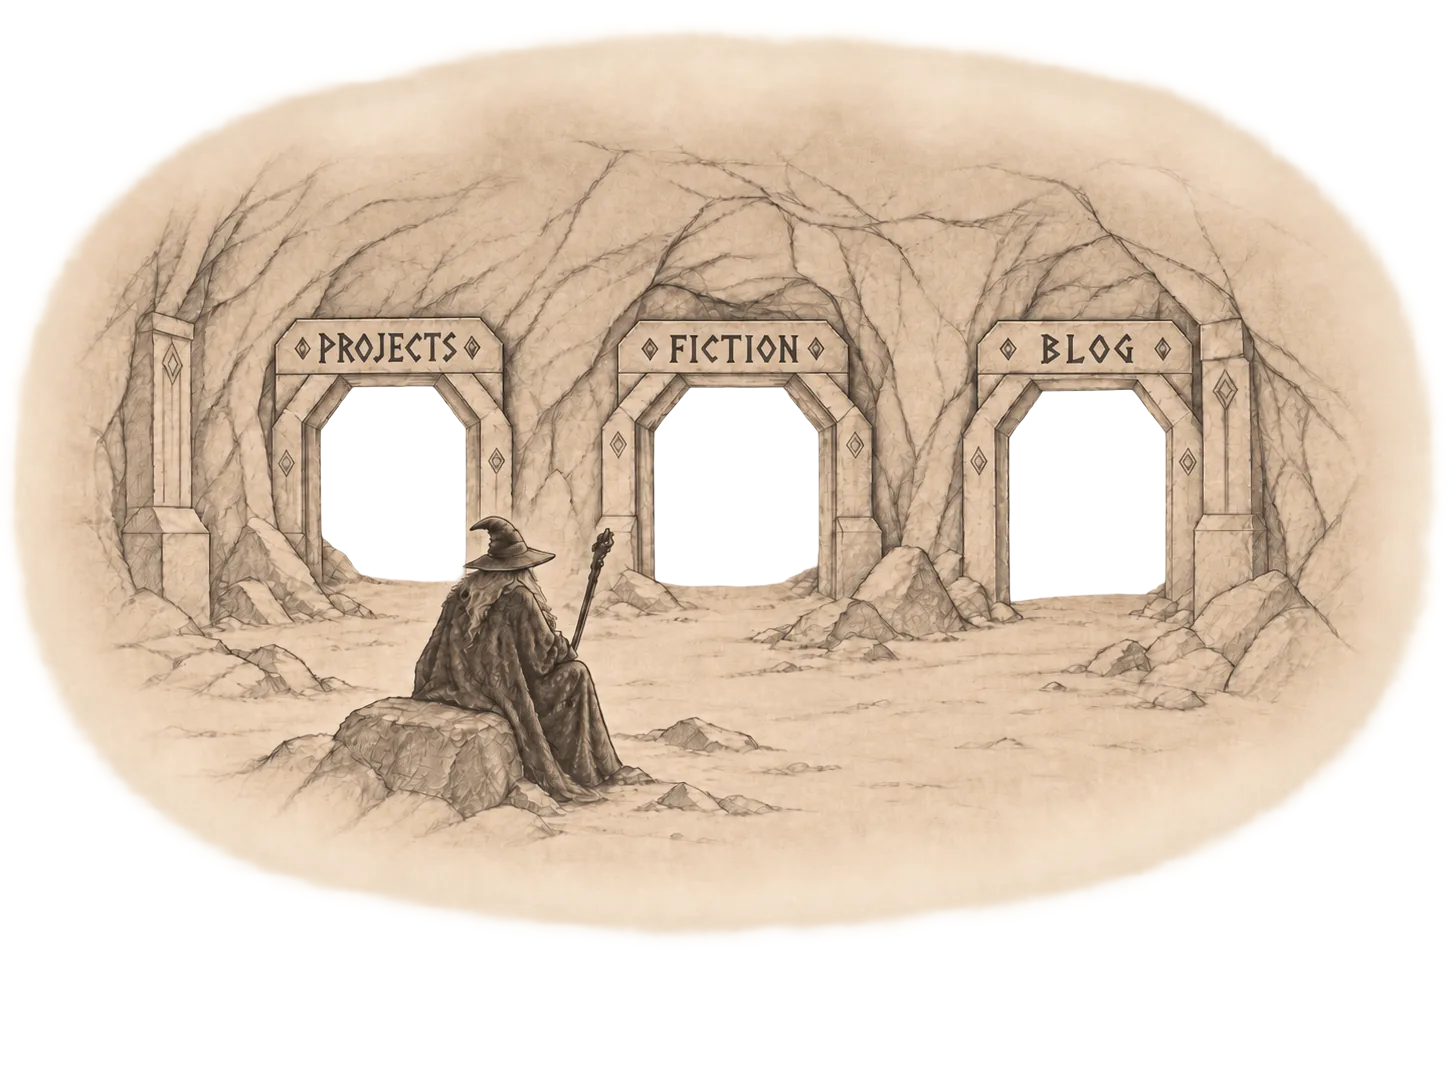
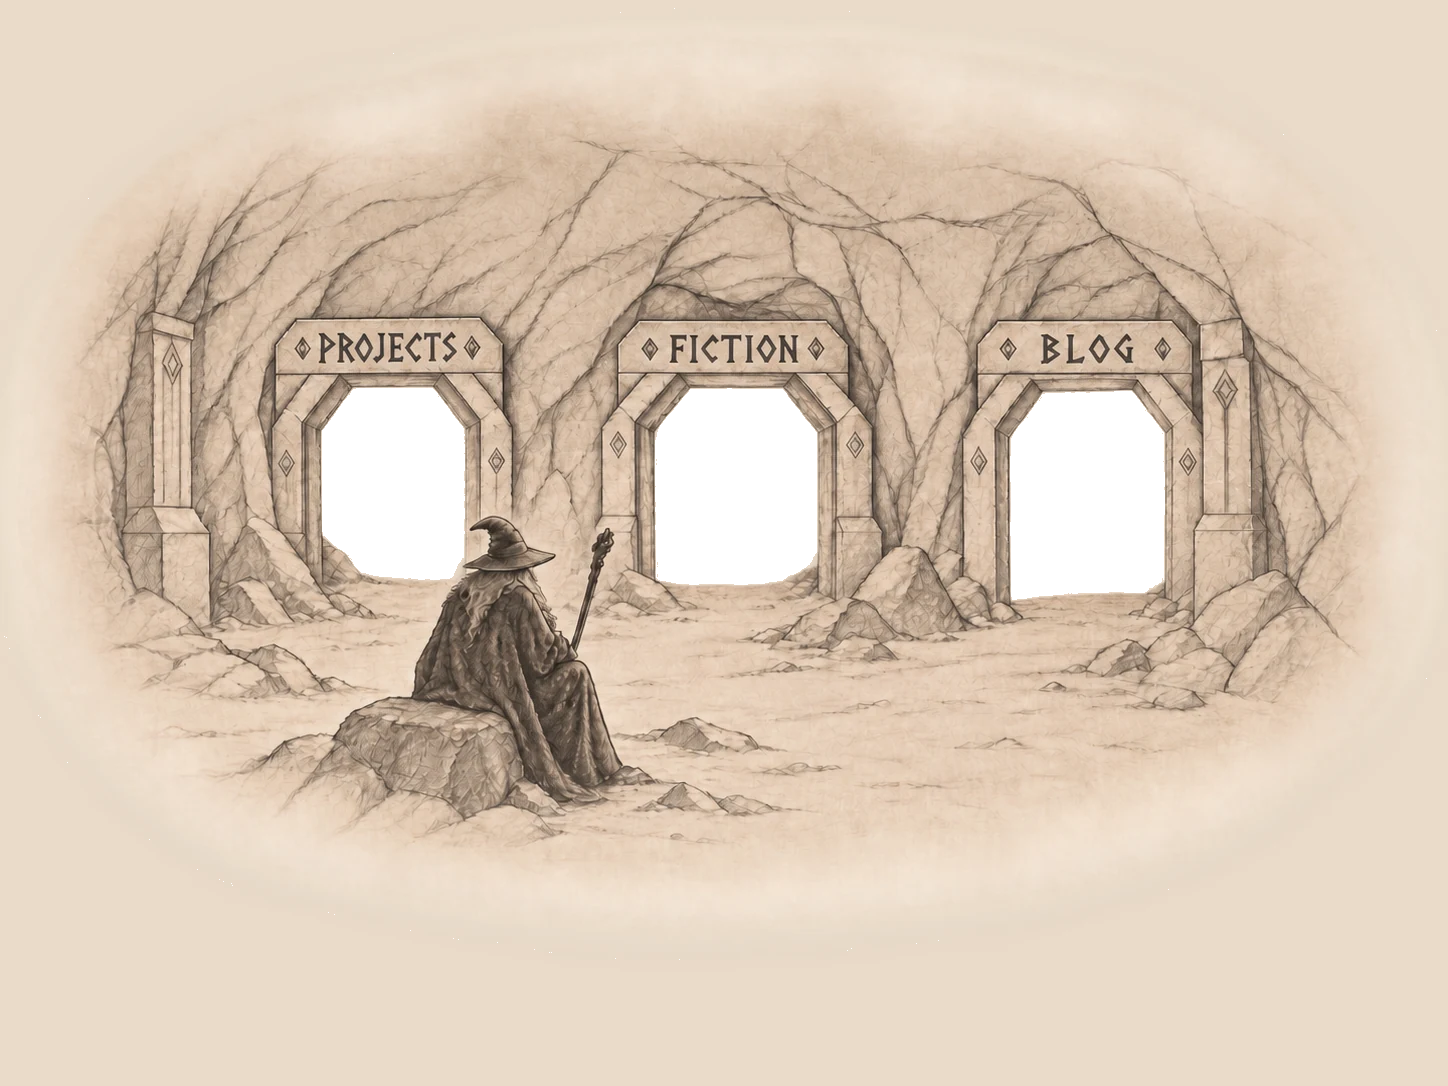
Blend the hall into the page, and make the portals bigger and brighter
- flatten the artwork onto #e9dac9 (its own paper colour, sampled from the
  fade zone) with only the doorways punched out; body matches exactly, so
  the vignette dissolves with no visible edge and no black surround
- scenes zoom to 1.46 (drifting to 1.62) at brightness 1.22, veil down to
  0.02, and the scene art is pre-brightened with a soft-knee rolloff so it
  doesn't bloom
- fire ring widened to 170% so more of the picture shows through
- 404 and theme-colours moved onto the same paper
- portrait phones scale the artwork past the viewport; the cropped edges
  are invisible now that the background matches

diff --git a/public/assets/css/site.css b/public/assets/css/site.css
@@ -43,9 +43,8 @@ h3{font-size:1.15rem}
    THE HALL (landing page)
    ============================================================ */
 body.hall-page{
-  background:
-    radial-gradient(120% 90% at 50% 42%, #171310 0%, #0c0a09 55%, #060505 100%);
-  color:#e8ddca; min-height:100svh;
+  background:#e9dac9;              /* sampled from the artwork's own paper */
+  color:#4a3d30; min-height:100svh;
   display:flex; flex-direction:column; align-items:center; justify-content:center;
   padding:clamp(12px,3vw,32px) 0;
 }
@@ -57,7 +56,6 @@ body.hall-page{
 .hall-art, .hall picture{
   position:absolute; inset:0; width:100%; height:100%;
   object-fit:contain; pointer-events:none; z-index:3;
-  filter:drop-shadow(0 24px 60px rgba(0,0,0,.65));
 }
 .hall-defs{position:absolute;width:0;height:0;overflow:hidden}
 
@@ -95,7 +93,7 @@ body.hall-page{
 /* the ring of fire, licking the inside of the doorframe */
 .portal .swirl{
   transform:translateY(-50%) scaleY(1.14);
-  inset:auto; left:-32%; top:50%; width:164%; height:auto; aspect-ratio:1;
+  inset:auto; left:-35%; top:50%; width:170%; height:auto; aspect-ratio:1;
   background:image-set(url("../scenes/fire-a.webp") type("image/webp"), url("../scenes/fire-a.png") type("image/png")) center/100% 100% no-repeat;
   mix-blend-mode:screen; opacity:0;
   filter:saturate(1.15) contrast(1.05);
@@ -103,7 +101,7 @@ body.hall-page{
   transition:opacity .75s ease;
 }
 .portal .swirl.b{
-  left:-42%; width:184%;
+  left:-48%; width:196%;
   background-image:image-set(url("../scenes/fire-b.webp") type("image/webp"), url("../scenes/fire-b.png") type("image/png"));
   filter:blur(6px) saturate(1.2);
   animation:fire-spin-r 15s linear infinite;
@@ -118,17 +116,17 @@ body.hall-page{
 
 /* ---- awake ---- */
 .portal:is(:hover,:focus-visible,.is-awake) .scene{
-  transform:scale(1.17);
-  filter:brightness(1.02) saturate(1) contrast(1) blur(0);
+  transform:scale(1.46);
+  filter:brightness(1.22) saturate(1.06) contrast(1.02) blur(0);
   animation:portal-drift 13s ease-in-out 1.35s infinite alternate;
 }
-.portal:is(:hover,:focus-visible,.is-awake) .veil{opacity:.10}
+.portal:is(:hover,:focus-visible,.is-awake) .veil{opacity:.02}
 .portal:is(:hover,:focus-visible,.is-awake) .ember{opacity:0}
 .portal:is(:hover,:focus-visible,.is-awake) .swirl{opacity:.92;animation:fire-spin 24s linear infinite, flare 6s ease-in-out infinite}
 .portal:is(:hover,:focus-visible,.is-awake) .swirl.b{opacity:.55;animation:fire-spin-r 15s linear infinite, flare-b 4.4s ease-in-out infinite}
 .portal:is(:hover,:focus-visible,.is-awake) .rim{
   transform:scale(1);
-  box-shadow:inset 0 0 14px 4px rgba(0,0,0,.55), inset 0 0 52px 14px rgba(120,44,0,.4);
+  box-shadow:inset 0 0 10px 2px rgba(0,0,0,.35), inset 0 0 44px 10px rgba(120,44,0,.28);
 }
 .portal:focus-visible{outline:2px solid rgba(255,200,120,.9);outline-offset:3px}
 
@@ -137,8 +135,8 @@ body.hall-page{
 @keyframes flare{0%,100%{opacity:.82}50%{opacity:1}}
 @keyframes flare-b{0%,100%{opacity:.4}50%{opacity:.72}}
 @keyframes portal-drift{
-  from{transform:scale(1.17) translate3d(0,0,0)}
-  to{transform:scale(1.30) translate3d(0,-2%,0)}
+  from{transform:scale(1.46) translate3d(0,0,0)}
+  to{transform:scale(1.62) translate3d(0,-2.4%,0)}
 }
 @keyframes ember-breathe{0%,100%{opacity:.08}50%{opacity:.22}}
 
@@ -170,7 +168,7 @@ body.hall-page{
 .wizard-hint{
   position:absolute; z-index:4; left:28.5%; top:72.5%; width:16%;
   text-align:center; font-family:var(--sans); font-size:clamp(9px,.8vw,12px);
-  letter-spacing:.22em; text-transform:uppercase; color:#c9b48d;
+  letter-spacing:.22em; text-transform:uppercase; color:#8a7862;
   opacity:.0; transition:opacity .5s ease; pointer-events:none;
 }
 .hall:hover .wizard-hint{opacity:.55}
@@ -181,9 +179,18 @@ body.hall-page{
   margin-top:4px; font-family:var(--sans); font-size:.78rem; letter-spacing:.2em;
   text-transform:uppercase;
 }
-.hall-nav a{color:#b9a684;text-decoration:none;padding:10px 2px;border-bottom:1px solid rgba(185,166,132,.25)}
-.hall-nav a:active{color:#f0d9ac}
+.hall-nav a{color:#6b5a45;text-decoration:none;padding:10px 2px;border-bottom:1px solid rgba(107,90,69,.3)}
+.hall-nav a:active{color:#241c14}
 @media (max-width:760px){ .hall-nav{display:flex} .wizard-hint{display:none} }
+
+/* On a portrait phone the artwork is landscape, so it leaves a lot of empty
+   page. Scale it past the viewport and let the faded edges crop — the page is
+   the same colour as the paper, so there's nothing to see out there anyway. */
+@media (max-width:760px) and (orientation:portrait){
+  body.hall-page{overflow-x:hidden}
+  .hall{width:152%;margin-left:-26%}
+  .hall-nav{margin-top:-2vh}
+}
 
 /* ============================================================
    INTERIOR PAGES

diff --git a/public/404.html b/public/404.html
@@ -7,17 +7,15 @@
 <meta name="robots" content="noindex">
 <link rel="stylesheet" href="/assets/css/site.css">
 <style>
-  body{background:radial-gradient(120% 90% at 50% 42%,#171310,#0c0a09 55%,#060505);color:#e8ddca;
+  body{background:#e9dac9;color:var(--ink);
        min-height:100svh;display:grid;place-items:center;text-align:center;padding:8vh 24px}
-  h1{font-size:clamp(3rem,12vw,7rem);margin:0;color:#d8c6a4;letter-spacing:-.03em}
-  p{color:#a4917289;color:#a49172;max-width:38ch;margin:14px auto 30px}
-  .btn{background:#e8ddca;border-color:#e8ddca;color:#12100e}
-  .btn:hover{background:transparent;color:#e8ddca}
+  h1{font-size:clamp(3rem,12vw,7rem);margin:0;color:#3a2d20;letter-spacing:-.03em}
+  p{color:var(--ink-soft);max-width:38ch;margin:14px auto 30px}
 </style>
 </head>
 <body>
   <div>
-    <span class="runic" style="color:#8a7860">Four hundred and four</span>
+    <span class="runic">Four hundred and four</span>
     <h1>404</h1>
     <p>There's no door here. The wizard doesn't know about this one either.</p>
     <a class="btn" href="/">Back to the hall</a>

diff --git a/public/index.html b/public/index.html
@@ -7,7 +7,7 @@
 <link rel="preload" as="image" href="assets/portal-hall.webp" type="image/webp">
 <meta name="description" content="Writer, forecaster, serial hobbyist. Projects, fiction, and essays.">
 <link rel="canonical" href="https://ryanbeck.com/">
-<meta name="theme-color" content="#0a0908">
+<meta name="theme-color" content="#e9dac9">
 
 <link rel="icon" href="/favicon.ico" sizes="48x48">
 <link rel="icon" href="/favicon-32.png" type="image/png" sizes="32x32">

diff --git a/CLAUDE.md b/CLAUDE.md
@@ -44,7 +44,14 @@ degrades gracefully when `/api/substack` 404s.
 
 This is the part that will bite you if you change it carelessly.
 
-`portal-hall.png` is a drawing whose **three doorways are fully transparent**.
+`portal-hall.png` is a drawing whose **three doorways are fully transparent**. The
+rest of it has been flattened onto `#e9dac9` — the paper colour sampled from the
+original's own fade zone — and `body.hall-page` uses that exact value, so the
+vignette dissolves into the page with no visible edge. **If you re-export the
+artwork, flatten it onto that same colour and punch out only the doorways**, or
+the seam comes back. `tools/` has no script for this; the recipe is: flood-fill
+from the border to find the outside, treat the remaining transparent regions as
+the doorways, composite everything else over `#e9dac9`.
 The three portals are `<a>` elements sitting *behind* the artwork (`z-index: 2`
 vs the image's `3`, and the image is `pointer-events: none`). Each is clipped
 to the exact traced outline of its doorway:
@@ -84,9 +91,12 @@ Six stacked spans inside each portal, back to front: `.scene`, `.veil`, `.rim`,
 `.ember`, `.swirl.b`, `.swirl`. Order matters — `.rim` is a dark inset shadow
 and must sit *under* the flames or it mudddies them.
 
-- `.scene` goes from `scale(1)` + `brightness(.07)` to `scale(1.17)` + full
-  brightness, then keeps drifting to `1.30` on a 13s alternating loop. It's a
-  continuous dolly, not a one-shot zoom — that's what Ryan asked for.
+- `.scene` goes from `scale(1)` + `brightness(.07)` to `scale(1.46)` +
+  `brightness(1.22)`, then keeps drifting to `1.62` on a 13s alternating loop.
+  It's a continuous dolly, not a one-shot zoom — that's what Ryan asked for.
+  The scene art itself is pre-brightened with a soft-knee highlight rolloff so
+  it doesn't bloom at that exposure; if you swap in new art and it looks blown
+  out, that's why.
 - `.rim`'s inset shadow *opens outward* as the scene pushes in. That opposition
   is what reads as vertigo. Don't "simplify" it away.
 - `.swirl` / `.swirl.b` are two rotating ring-of-fire PNGs (24s forward, 15s
@@ -96,7 +106,9 @@ and must sit *under* the flames or it mudddies them.
   wobbles.
 
 Sizing rule: the flame texture's hole is 60% of its width, so the element width
-that makes the ring hug the frame is roughly `door_width / 0.60` ≈ 164%. Change
+that makes the ring hug the frame is roughly `door_width / 0.60` ≈ 170%. Larger
+shows more picture but pushes the flames outside the frame where they get
+clipped into two orange smudges; smaller closes the ring in over the art. Change
 `inner=` in `tools/make-fire.py` and you have to change that percentage too.
 
 ### Touch devices

diff --git a/README.md b/README.md
@@ -29,7 +29,9 @@ public/               everything that gets served
   robots.txt  sitemap.xml  site.webmanifest  favicon.ico
 
   assets/
-  portal-hall.webp    the drawing (webp) + .png fallback
+  portal-hall.webp    the drawing (webp) + .png fallback. Flattened onto
+                      #e9dac9 with only the doorways punched out, which is
+                      why it blends into the page with no visible edge
   css/site.css        all styling, one file
   js/portal.js        touch-device behaviour for the doors
   js/substack.js      pulls live posts from /api/substack
